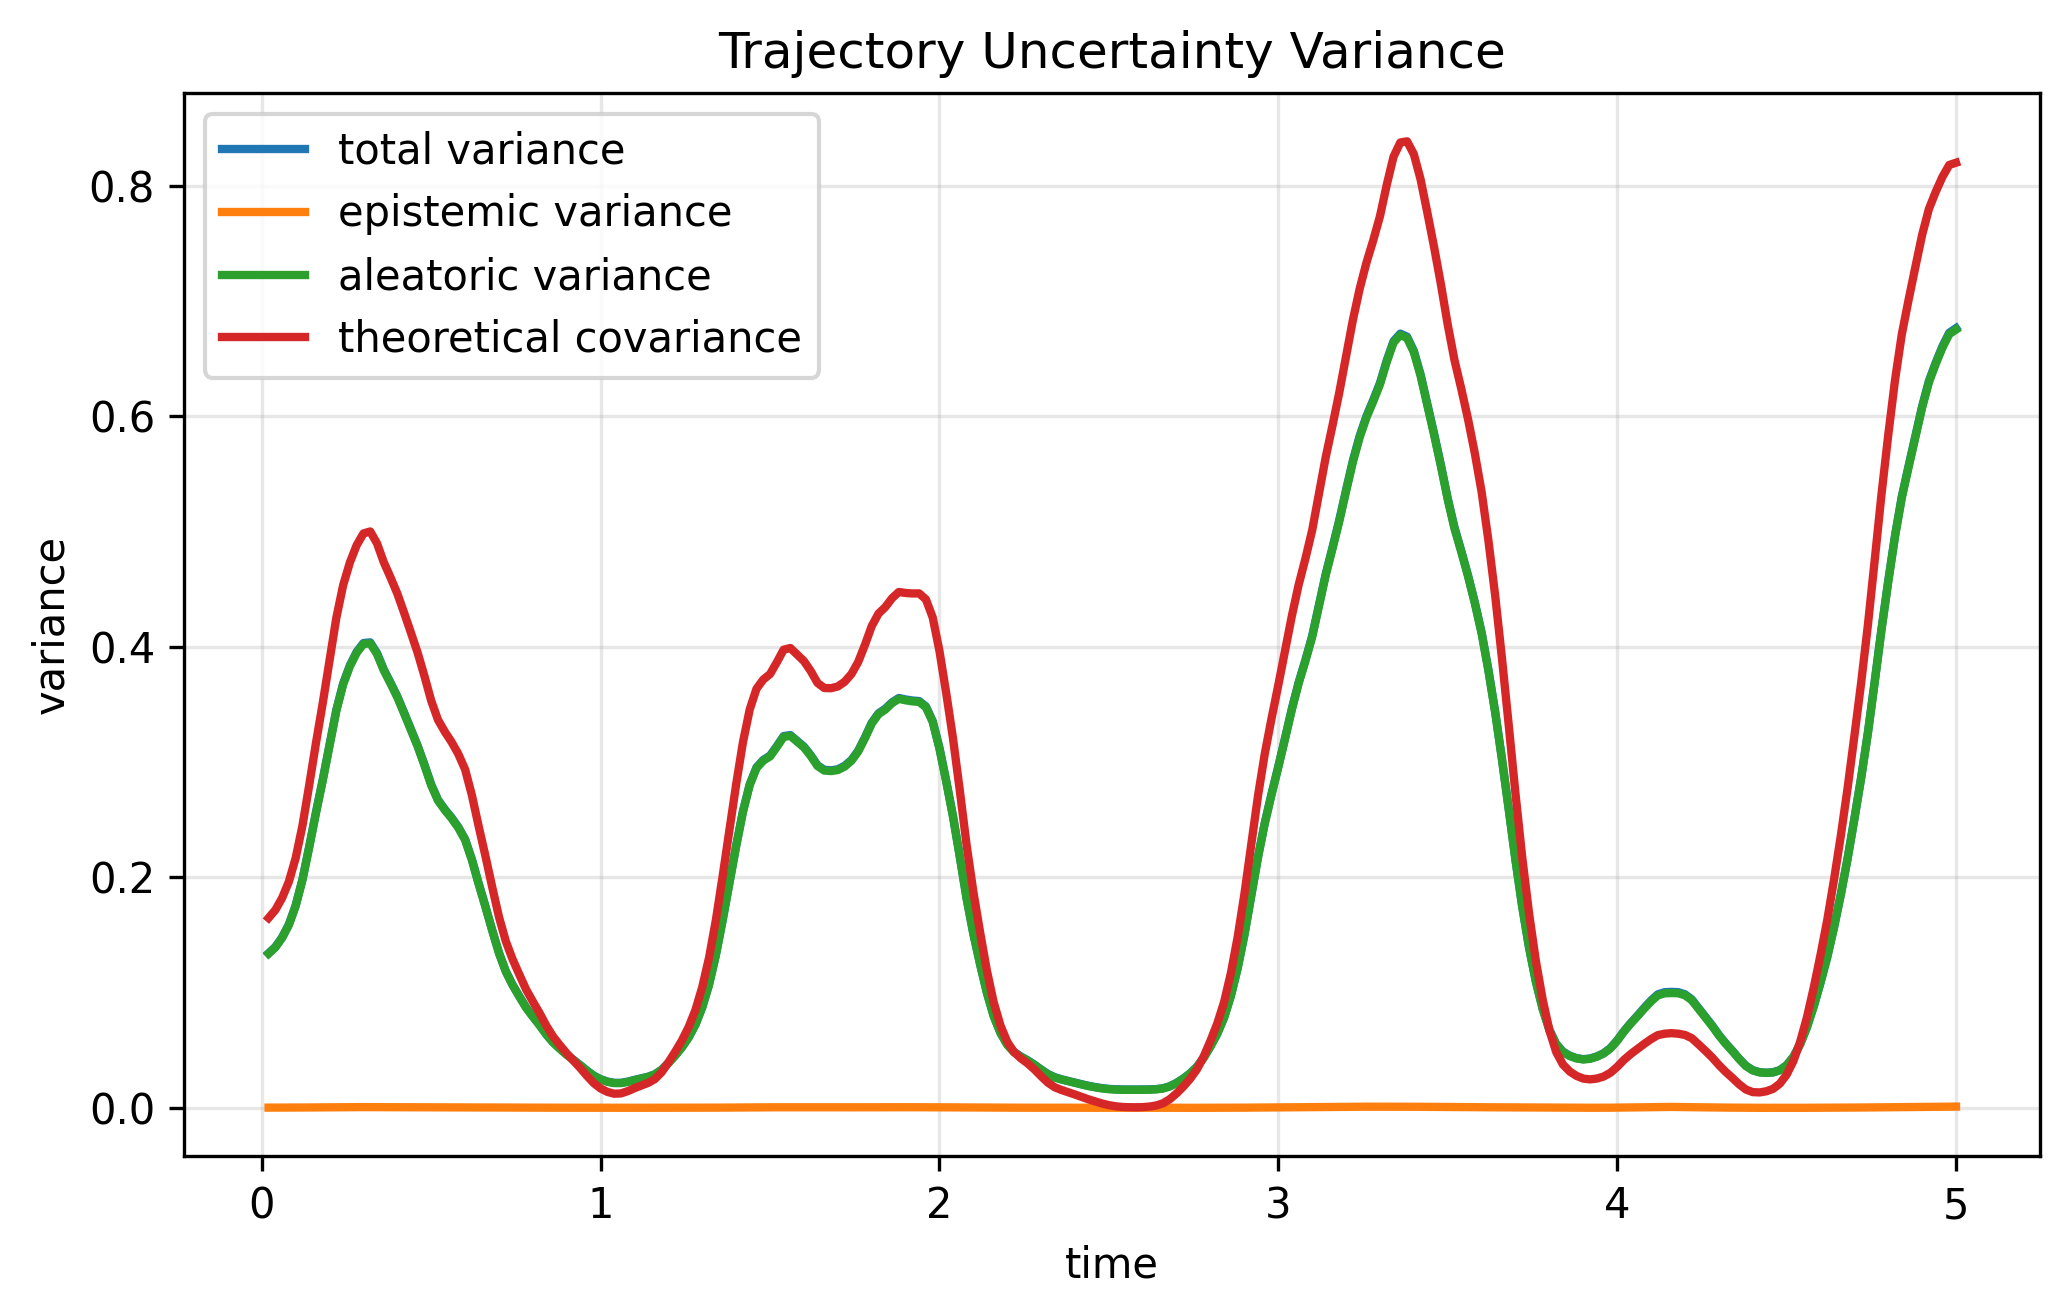
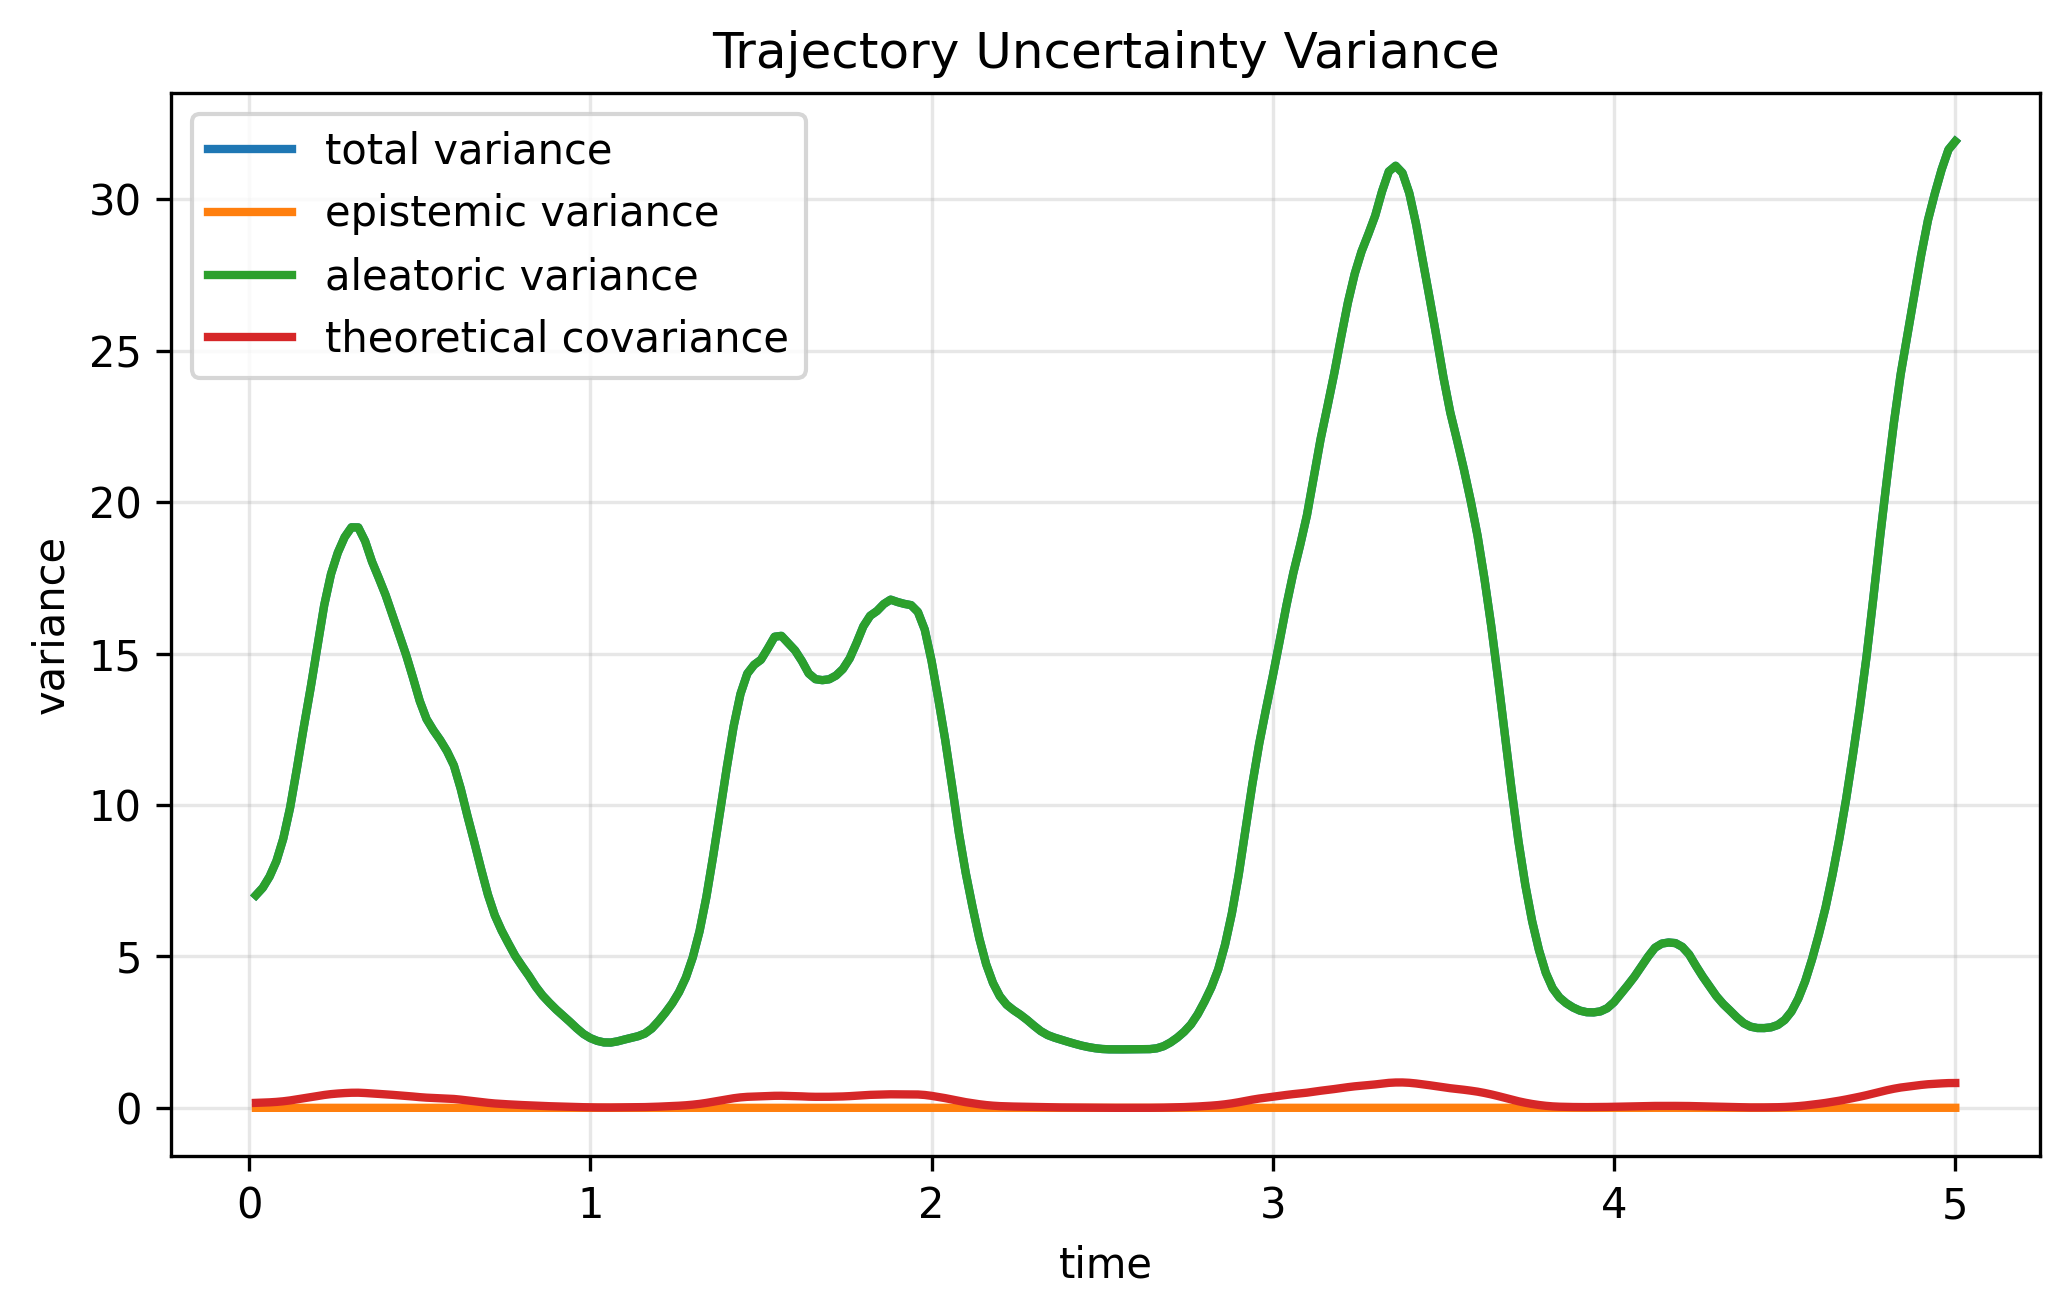
ELBO only train std

diff --git a/learner.py b/learner.py
@@ -88,12 +88,12 @@ class Train(utils.ITrainAttrLog):
             weight_decay=args.wd
         )
         self.optim_mean = torch.optim.Adam(
-            list(self.model.mean.parameters()) + list(self.model.mean_rho_param),
+            list(self.model.mean_rho_param),
             lr=args.lr,
             weight_decay=args.wd
         )
         self.optim_ker = torch.optim.Adam(
-            list(self.model.ker.phi.parameters()) + list(self.model.phi_rho_param),
+            list(self.model.phi_rho_param),
             lr=args.lr,
             weight_decay=args.wd
         )

diff --git a/README.md b/README.md
@@ -6,3 +6,6 @@
 
 ### 20260901 update
     Delete P (basis function coeffient $\theta$ uncertainty) of kernel from stage 2 ELBO training, add data restore folder. 
+
+### 20260902 update
+    ELBO training only train std of network params
